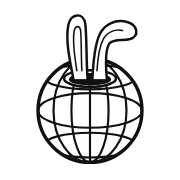
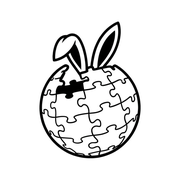
Add files via upload

Changed region(s): [[0.1944, 0.0556, 0.8056, 0.9167]]

diff --git a/index.html b/index.html
@@ -3,29 +3,27 @@
 <head>
 <meta charset="utf-8">
 <meta name="viewport" content="width=device-width, initial-scale=1, viewport-fit=cover">
-<meta name="theme-color" content="#f6f1ea" media="(prefers-color-scheme: light)">
-<meta name="theme-color" content="#16120f" media="(prefers-color-scheme: dark)">
+<meta name="theme-color" content="#000000">
 <meta name="apple-mobile-web-app-capable" content="yes">
 <meta name="mobile-web-app-capable" content="yes">
-<meta name="apple-mobile-web-app-status-bar-style" content="default">
-<meta name="apple-mobile-web-app-title" content="Rabbit Hole">
+<meta name="apple-mobile-web-app-status-bar-style" content="black">
+<meta name="apple-mobile-web-app-title" content="rabbithole">
 <meta name="description" content="True stories from Wikipedia, found where your interests overlap.">
 <link rel="manifest" href="manifest.webmanifest">
 <link rel="apple-touch-icon" href="apple-touch-icon.png">
 <link rel="icon" type="image/png" href="icon-192.png">
-<title>Rabbit Hole</title>
+<link rel="preconnect" href="https://fonts.googleapis.com">
+<link rel="preconnect" href="https://fonts.gstatic.com" crossorigin>
+<link rel="stylesheet" href="https://fonts.googleapis.com/css2?family=Montserrat:wght@400;800&display=swap">
+<title>rabbithole</title>
 <style>
   :root {
-    color-scheme: light dark;
-    --bg: #f6f1ea; --card: #fffdf9; --ink: #1f1a15; --muted: #6f665b; --line: #e7ddcf;
-    --accent: #d4531f; --accent-ink: #fff; --accent-soft: #fbe6da; --ok: #237a48; --bad: #b8322a;
-    --hole: #2a1d14;
+    /* Seafoam: black background, dark grey sections, white text, soft greenish-blue highlights. */
+    color-scheme: dark;
+    --bg: #000000; --card: #222222; --ink: #ffffff; --muted: #a8a8a8; --line: #3d3d3d;
+    --accent: #b5e0d6; --accent-ink: #14231f; --accent-soft: #2a3533; --ok: #a8e0b8; --bad: #f0a8a8;
     --sans: -apple-system, BlinkMacSystemFont, "Segoe UI", Roboto, sans-serif;
     --serif: ui-serif, "New York", "Iowan Old Style", Georgia, serif;
-  }
-  @media (prefers-color-scheme: dark) {
-    :root { --bg: #16120f; --card: #201b17; --ink: #f3ede5; --muted: #a99f93; --line: #382f27;
-            --accent: #ee7a45; --accent-ink: #1b0f08; --accent-soft: #3a2418; --hole: #0d0906; }
   }
   * { box-sizing: border-box; min-width: 0; }
   html { -webkit-text-size-adjust: 100%; }
@@ -63,8 +61,14 @@
 
   .hero { position: relative; overflow: hidden; }
   .hero-art { position: absolute; right: 14px; top: 12px; width: 96px; height: 129px; pointer-events: none; }
-  .hero h2 { font-size: 24px; max-width: 70%; }
-  .hero p { max-width: 75%; margin: 6px 0 16px; }
+  .hero h2 { font-size: 24px; }
+  .hero p { margin: 6px 0 16px; }
+  .brand { position: relative; display: flex; flex-direction: column; align-items: center; padding: 6px 0 18px; }
+  .brand-img { height: 116px; width: auto; display: block; }
+  .wordmark { font: 400 40px/1 "Montserrat", var(--sans); letter-spacing: -.5px; margin-top: 8px; color: var(--ink); }
+  .wordmark b { font-weight: 800; }
+  .brand-settings { position: absolute; right: -6px; top: 0; }
+  .brand-img { filter: invert(1); } /* logo art is black lines; show it white */
 
   .job { display: flex; align-items: center; gap: 12px; padding: 4px 0 12px; }
   .spinner { width: 22px; height: 22px; border-radius: 50%; border: 3px solid var(--accent-soft); border-top-color: var(--accent);
@@ -135,7 +139,7 @@
 'use strict';
 {
 // =====================================================================
-// Rabbit Hole: finds Wikipedia articles where your interests overlap and
+// rabbithole: finds Wikipedia articles where your interests overlap and
 // turns them into 5–10 minute stories, written by Gemini.
 // Everything runs in the browser. Wikipedia and Gemini are called directly.
 // Reads live in IndexedDB; settings (including your key) in localStorage.
@@ -155,10 +159,10 @@ const CATEGORIES = [
 const DEFAULT_SELECTED = ["Healthcare", "Medicine", "Biology", "Technology", "Science"];
 const MODELS = {
   "gemini-3.8-flash": "Gemini 3.8 Flash (best writing)",
-  "gemini-3.6-flash": "Gemini 3.6 Flash",
   "gemini-3.5-flash-lite": "Gemini 3.5 Flash-Lite (fastest)",
+  "gemini-3.1-flash-lite": "Gemini 3.1 Flash-Lite (backup)",
 };
-const FALLBACK_MODEL = "gemini-3.5-flash-lite";
+const FALLBACK_MODELS = ["gemini-3.5-flash-lite", "gemini-3.1-flash-lite"]; // all on Gemini's free tier
 const PICKER_MODEL = "gemini-3.5-flash-lite"; // choosing the article is a small job; saves Flash quota for writing
 const WORDS = { min: 1200, target: 1800, max: 2400 }; // 5–10 minutes at ~240 words a minute
 const WIKI = "https://en.wikipedia.org/w/api.php";
@@ -190,31 +194,7 @@ const ICONS = {
   book: '<svg viewBox="0 0 24 24" width="26" height="26" fill="none" stroke="currentColor" stroke-width="1.8" stroke-linecap="round" stroke-linejoin="round"><path d="M4 19.5A2.5 2.5 0 0 1 6.5 17H20V3H6.5A2.5 2.5 0 0 0 4 5.5z"/><path d="M4 19.5A2.5 2.5 0 0 0 6.5 22H20v-5"/></svg>',
 };
 // The logo (bent rabbit ears coming out of a hole in a globe), without its orange tile.
-const LOGO_ART = `<svg class="hero-art" viewBox="90 30 332 445" aria-hidden="true">
-  <defs><clipPath id="g"><circle cx="256" cy="318" r="168"/></clipPath></defs>
-  <g transform="translate(256 286) scale(0.88) translate(-256 -286)">
-    <circle cx="256" cy="318" r="168" fill="var(--card)"/>
-    <g clip-path="url(#g)" fill="none" stroke="var(--ink)" stroke-width="7">
-      <ellipse cx="256" cy="318" rx="168" ry="56"/>
-      <ellipse cx="256" cy="210" rx="150" ry="40"/>
-      <ellipse cx="256" cy="430" rx="150" ry="40"/>
-      <ellipse cx="256" cy="318" rx="60" ry="168"/>
-      <ellipse cx="256" cy="318" rx="118" ry="168"/>
-      <line x1="256" y1="150" x2="256" y2="486"/>
-    </g>
-    <circle cx="256" cy="318" r="168" fill="none" stroke="var(--ink)" stroke-width="11"/>
-    <path d="M228 70 L284 70 L272 205 L240 205 Z" fill="var(--card)"/>
-    <ellipse cx="256" cy="215" rx="84" ry="27" fill="var(--card)" stroke="var(--ink)" stroke-width="8"/>
-    <ellipse cx="256" cy="217" rx="68" ry="20" fill="var(--ink)"/>
-    <g transform="translate(256 222) scale(1.25) translate(-256 -222)">
-      <path d="M214 222 C204 170 192 118 200 78 C206 46 240 44 244 76 C248 116 246 170 250 222 Z" fill="var(--card)" stroke="var(--ink)" stroke-width="6.4" stroke-linejoin="round"/>
-      <path d="M222 196 C216 158 210 122 215 94 C218 78 230 78 232 94 C234 124 233 160 235 196" fill="none" stroke="var(--ink)" stroke-width="4" stroke-linecap="round"/>
-      <path d="M262 222 C264 176 268 132 280 104 C292 76 322 62 352 70 C380 78 384 106 360 114 C340 120 318 112 306 126 C296 140 296 180 300 222 Z" fill="var(--card)" stroke="var(--ink)" stroke-width="6.4" stroke-linejoin="round"/>
-      <path d="M274 196 C276 164 280 134 290 115 C300 96 320 88 340 92" fill="none" stroke="var(--ink)" stroke-width="4" stroke-linecap="round"/>
-    </g>
-    <path d="M188 217 A68 20 0 0 0 324 217 Z" fill="var(--ink)"/>
-  </g>
-</svg>`;
+// (The logo is the image file logo-mark.png; the name is live text.)
 
 // ---------- Settings (localStorage) ----------
 const store = {
@@ -395,7 +375,7 @@ function readInstructions(interests, angle) {
   const interestLine = interests.length
     ? `The reader is into: ${interests.join(", ")}. Where the article supports it, draw out how this story connects those fields.`
     : "The reader is curious about everything.";
-  return `You write for Rabbit Hole, an app that turns Wikipedia articles into gripping true stories for curious people. Write like a great magazine storyteller who is also a smart, warm friend: vivid, clear, a little playful, never stuffy. Explain jargon in plain words.
+  return `You write for rabbithole, an app that turns Wikipedia articles into gripping true stories for curious people. Write like a great magazine storyteller who is also a smart, warm friend: vivid, clear, a little playful, never stuffy. Explain jargon in plain words.
 
 Turn the topic into a story, not a summary. Don't describe what the thing is or does; find the narrative behind it. Ask: why did this come to exist? What problem, crisis, accident, rivalry or bold idea started it? Who were the people, what did they risk, what went wrong, what was the turning point, and what did it change? For example, the Wikipedia article on the FDA is a dry description of an agency, but the story of how deadly patent medicines and a poisoning scandal forced its creation is gripping. If the article has little history, build the story around whatever tension, mystery or stakes it does contain.
 
@@ -430,7 +410,7 @@ async function geminiCall(model, { system, prompt, schema, hint }, signal, useSc
   } catch (e) {
     if (e.name === "AbortError") throw e;
     throw new AppError(document.hidden || wasHidden
-      ? "Rabbit Hole was interrupted when you switched apps. Keep it open while it writes, then try again."
+      ? "rabbithole was interrupted when you switched apps. Keep it open while it writes, then try again."
       : "Couldn't reach Google. Check your internet connection and try again.");
   }
   const data = await res.json().catch(() => ({}));
@@ -455,6 +435,8 @@ function friendlyGemini(e) {
     return "Google didn't accept your API key. Check it in Settings (copy the whole key again).";
   if (e.status === 429) return "You've hit Gemini's free limit for the moment. Wait a minute (or until tomorrow) and try again.";
   if (e.status === 404) return `Google doesn't recognise that model (${m}). Pick a different model in Settings.`;
+  if ([500, 503, 504].includes(e.status))
+    return "Google's AI servers are overloaded right now. rabbithole tried several times and every free model was busy. This usually passes within a few minutes, so try again shortly.";
   return `Gemini had a problem (error ${e.status}): ${m}`;
 }
 
@@ -462,7 +444,7 @@ function friendlyGemini(e) {
 async function pickStory(pool, selected, signal) {
   const list = pool.map((c, i) => `${i + 1}. ${c.title} | matched: ${c.labels.join(", ") || "none"} | ${c.snippet}`).join("\n");
   const job = {
-    system: "You choose the next article for a curious reader of Rabbit Hole, an app that turns Wikipedia articles into true stories.",
+    system: "You choose the next article for a curious reader of rabbithole, an app that turns Wikipedia articles into true stories.",
     prompt: `${selected.length ? `The reader's interests: ${selected.join(", ")}.` : "The reader is curious about everything."}
 
 Pick the ONE candidate that:
@@ -474,7 +456,7 @@ ${list}`,
     schema: PICK_SCHEMA,
     hint: PICK_HINT,
   };
-  for (const model of [PICKER_MODEL, S.model]) {
+  for (const model of [...new Set([PICKER_MODEL, ...FALLBACK_MODELS, S.model])]) {
     try {
       const out = await geminiCall(model, job, signal);
       const c = pool[Number(out.number) - 1];
@@ -504,22 +486,30 @@ async function findArticle(selected, seen, onStatus, signal) {
   throw new AppError("Couldn't find a good article this time. Try again.");
 }
 
-// Writes the story. Retries the chosen model once if it's busy, then falls back to Flash-Lite,
-// remembering why so it can be shown in the read and in Settings.
+// Writes the story. If Google is busy, waits and retries each model, then moves down the list of
+// free fallback models, remembering why so it can be shown in the read and in Settings.
 async function writeStory(article, interests, angle, onStatus, signal) {
   const job = { system: readInstructions(interests, angle),
                 prompt: `Article title: ${article.title}\n\n<article>\n${article.text}\n</article>`,
                 schema: READ_SCHEMA, hint: READ_HINT };
   const chosen = S.model;
-  const order = chosen === FALLBACK_MODEL ? [chosen] : [chosen, FALLBACK_MODEL];
+  const order = [...new Set([chosen, ...FALLBACK_MODELS])];
+  const WAITS = [6, 15]; // seconds to wait before the 2nd and 3rd try of the same model
   let note = "";
+  let lastError = null;
 
   for (let i = 0; i < order.length; i++) {
     const model = order[i];
-    const tries = i === 0 && order.length > 1 ? 2 : 1;
-    for (let t = 0; t < tries; t++) {
+    const name = MODELS[model] || model;
+    for (let t = 0; t <= WAITS.length; t++) {
       try {
-        if (t > 0) { onStatus("Gemini was busy, trying again…"); await sleep(4000, signal); }
+        if (t > 0) {
+          for (let left = WAITS[t - 1]; left > 0; left--) {
+            onStatus(`Google is busy. Trying ${name} again in ${left} s…`);
+            await sleep(1000, signal);
+          }
+          onStatus(`Writing the story of “${article.title}”…`);
+        }
         let draft = await geminiCall(model, job, signal);
         const n = draftWords(draft);
         if (n < WORDS.min || n > WORDS.max) {
@@ -533,19 +523,26 @@ async function writeStory(article, interests, angle, onStatus, signal) {
         return { draft, model, note };
       } catch (e) {
         if (e.name === "AbortError" || !(e instanceof GeminiError)) throw e;
-        const retryable = [429, 500, 503, 504].includes(e.status);
-        if (retryable && t < tries - 1) continue;
-        if ((retryable || e.status === 404) && i < order.length - 1) {
-          note = `${MODELS[model] || model} wasn't available (${e.status}: ${e.message}), so ${MODELS[order[i + 1]] || order[i + 1]} wrote this one.`;
-          S.lastModelIssue = `${new Date().toLocaleString()}: ${model} → error ${e.status}: ${e.message}`;
-          onStatus("Switching to Flash-Lite…");
+        lastError = e;
+        const busy = [500, 503, 504].includes(e.status);
+        const limited = e.status === 429;
+        // Busy: retry the same model after a pause. Rate-limited: one retry. Missing model: move on.
+        if (busy && t < WAITS.length) continue;
+        if (limited && t < 1) continue;
+        if ((busy || limited || e.status === 404) && i < order.length - 1) {
+          const next = MODELS[order[i + 1]] || order[i + 1];
+          if (model === chosen) {
+            note = `${name} wasn't available (${e.status}: ${e.message}), so a backup model wrote this one.`;
+            S.lastModelIssue = `${new Date().toLocaleString()}: ${model} → error ${e.status}: ${e.message}`;
+          }
+          onStatus(`${name} is busy. Switching to ${next}…`);
           break;
         }
         throw new AppError(friendlyGemini(e));
       }
     }
   }
-  throw new AppError("Gemini couldn't write a story right now. Try again in a minute.");
+  throw new AppError(lastError ? friendlyGemini(lastError) : "Gemini couldn't write a story right now. Try again in a minute.");
 }
 
 function draftWords(d) {
@@ -654,7 +651,11 @@ function renderJobSlots() {
 function interestsCard() {
   const selected = new Set(S.selected);
   const custom = new Set(S.custom);
-  const chips = allInterests().map((label) => {
+  // Selected interests first, then the rest; each group in alphabetical order.
+  const abc = (x, y) => x.localeCompare(y, undefined, { sensitivity: "base" });
+  const ordered = [...allInterests().filter((l) => selected.has(l)).sort(abc),
+                   ...allInterests().filter((l) => !selected.has(l)).sort(abc)];
+  const chips = ordered.map((label) => {
     const on = selected.has(label);
     const toggle = `<button class="chip toggle" data-action="toggle-interest" data-label="${esc(label)}" aria-pressed="${on}">${esc(label)}</button>`;
     return custom.has(label)
@@ -679,7 +680,7 @@ function homeView() {
   const standalone = isStandalone();
   const install = !standalone && !S.installDismissed ? `
     <div class="card notice">
-      <strong>Add Rabbit Hole to your Home Screen</strong>
+      <strong>Add rabbithole to your Home Screen</strong>
       <p style="margin:6px 0 10px">In Chrome, tap the <b>Share</b> icon in the address bar, then <b>Add to Home Screen</b>. In Safari, tap <b>Share › Add to Home Screen</b>. Then open it from the icon. The installed app keeps its own storage, so add your key there.</p>
       <button class="linkbtn" data-action="dismiss-install">Got it</button>
     </div>` : "";
@@ -687,7 +688,7 @@ function homeView() {
   const setup = !hasKey ? `
     <section class="card">
       <h2>One-time setup</h2>
-      <p class="muted">Rabbit Hole uses Google's Gemini to write its stories. Its free tier needs no credit card. Get a free key, then paste it here.</p>
+      <p class="muted">rabbithole uses Google's Gemini to write its stories. Its free tier needs no credit card. Get a free key, then paste it here.</p>
       <div class="stack">
         <a class="btn btn-soft" href="https://aistudio.google.com/apikey" target="_blank" rel="noopener">Get a free key from Google AI Studio</a>
         <form data-form="key" class="inline">
@@ -701,7 +702,6 @@ function homeView() {
 
   const generate = hasKey ? `
     <section class="card hero">
-      ${LOGO_ART}
       <h2>Today's rabbit hole</h2>
       <p class="muted">A true story from Wikipedia, found where your interests meet, in a 5 to 10 minute read.</p>
       <div data-job="home">${jobSlotHTML("home")}</div>
@@ -719,10 +719,11 @@ function homeView() {
     : `<div class="empty">Nothing here yet. Tap the button above to fall into your first rabbit hole.</div>`;
 
   return `
-    <header class="topbar">
-      <img class="logo" src="icon-192.png" alt="">
-      <h1>Rabbit Hole</h1>
-      <button class="iconbtn" data-action="go-settings" aria-label="Settings">${ICONS.gear}</button>
+    <header class="brand">
+      <h1 class="sr">rabbithole</h1>
+      <img class="brand-img" src="logo-mark.png" alt="">
+      <div class="wordmark" aria-hidden="true"><b>rabbit</b>hole</div>
+      <button class="iconbtn brand-settings" data-action="go-settings" aria-label="Settings">${ICONS.gear}</button>
     </header>
     ${install}${setup}${generate}
     ${interestsCard()}
@@ -792,10 +793,10 @@ function settingsView() {
       <label class="sr" for="model">Model</label>
       <select id="model" data-change="model">${modelOptions}</select>
       <form data-form="custom-model" class="inline" style="margin-top:10px;${MODELS[model] ? "display:none" : ""}" id="custom-model-form">
-        <input name="model" type="text" value="${MODELS[model] ? "" : esc(model)}" placeholder="e.g. gemini-3.6-flash" autocomplete="off" autocapitalize="off" spellcheck="false">
+        <input name="model" type="text" value="${MODELS[model] ? "" : esc(model)}" placeholder="e.g. gemini-3.8-flash" autocomplete="off" autocapitalize="off" spellcheck="false">
         <button class="btn btn-primary" type="submit">Use</button>
       </form>
-      <p class="small muted">This model writes the stories. If it's busy or unavailable, Rabbit Hole retries once, then uses Gemini 3.5 Flash-Lite. (Flash-Lite always does the quick job of choosing the article.)</p>
+      <p class="small muted">This model writes the stories. If Google is busy, rabbithole waits and retries, then switches to Flash-Lite and finally a backup model, all free. (Flash-Lite always does the quick job of choosing the article.)</p>
       ${S.lastModelIssue ? `<p class="small" style="color:var(--bad)">Last problem: ${esc(S.lastModelIssue)}</p>` : ""}
     </section>
 
@@ -810,7 +811,7 @@ function settingsView() {
       <p class="small muted" id="storage-status"></p>
     </section>
 
-    <p class="small muted" style="text-align:center">Rabbit Hole · Articles from Wikipedia (CC BY-SA 4.0) · Stories by Google Gemini</p>`;
+    <p class="small muted" style="text-align:center">rabbithole · Articles from Wikipedia (CC BY-SA 4.0) · Stories by Google Gemini</p>`;
 }
 
 function render() {
@@ -850,9 +851,9 @@ async function showStorageStatus() {
   if (!el || !navigator.storage?.persisted) return;
   const persisted = await navigator.storage.persisted().catch(() => false);
   el.textContent = persisted
-    ? "This phone has agreed to keep Rabbit Hole's data permanently."
+    ? "This phone has agreed to keep rabbithole's data permanently."
     : isStandalone() ? "This phone hasn't promised permanent storage yet. Backups are a good idea."
-                     : "Open Rabbit Hole from your Home Screen for the most reliable storage.";
+                     : "Open rabbithole from your Home Screen for the most reliable storage.";
 }
 
 // ---------- Actions ----------
@@ -871,7 +872,7 @@ async function exportBackup() {
   const name = `rabbit-hole-backup-${new Date().toISOString().slice(0, 10)}.json`;
   const file = new File([data], name, { type: "application/json" });
   try {
-    if (navigator.canShare?.({ files: [file] })) { await navigator.share({ files: [file], title: "Rabbit Hole backup" }); return; }
+    if (navigator.canShare?.({ files: [file] })) { await navigator.share({ files: [file], title: "rabbithole backup" }); return; }
   } catch (e) { if (e.name === "AbortError") return; }
   const a = document.createElement("a");
   a.href = URL.createObjectURL(file);
@@ -884,7 +885,7 @@ async function exportBackup() {
 async function importBackup(file) {
   try {
     const data = JSON.parse(await file.text());
-    if (data.app !== "rabbit-hole" || !Array.isArray(data.reads)) throw new Error("not a Rabbit Hole backup");
+    if (data.app !== "rabbit-hole" || !Array.isArray(data.reads)) throw new Error("not a rabbithole backup");
     let added = 0;
     for (const r of data.reads) {
       if (!r || !r.id || !Array.isArray(r.sections)) continue;

diff --git a/sw.js b/sw.js
@@ -1,10 +1,10 @@
-// Rabbit Hole offline helper.
+// rabbithole offline helper.
 // - The app's own files: network first (so updates show up right away), cached copy when offline.
 // - Wikipedia article images: cached after first view, so saved reads keep their pictures offline.
 // - Calls to Wikipedia's API and to Gemini are never touched.
-const APP_CACHE = "rh-app-v4";
+const APP_CACHE = "rh-app-v9";
 const IMAGE_CACHE = "rh-images";
-const APP_FILES = ["./", "./index.html", "./manifest.webmanifest", "./icon-192.png", "./icon-512.png", "./apple-touch-icon.png"];
+const APP_FILES = ["./", "./index.html", "./manifest.webmanifest", "./icon-192.png", "./icon-512.png", "./apple-touch-icon.png", "./logo-mark.png"];
 
 self.addEventListener("install", (event) => {
   event.waitUntil(caches.open(APP_CACHE).then((cache) => cache.addAll(APP_FILES)).then(() => self.skipWaiting()));
